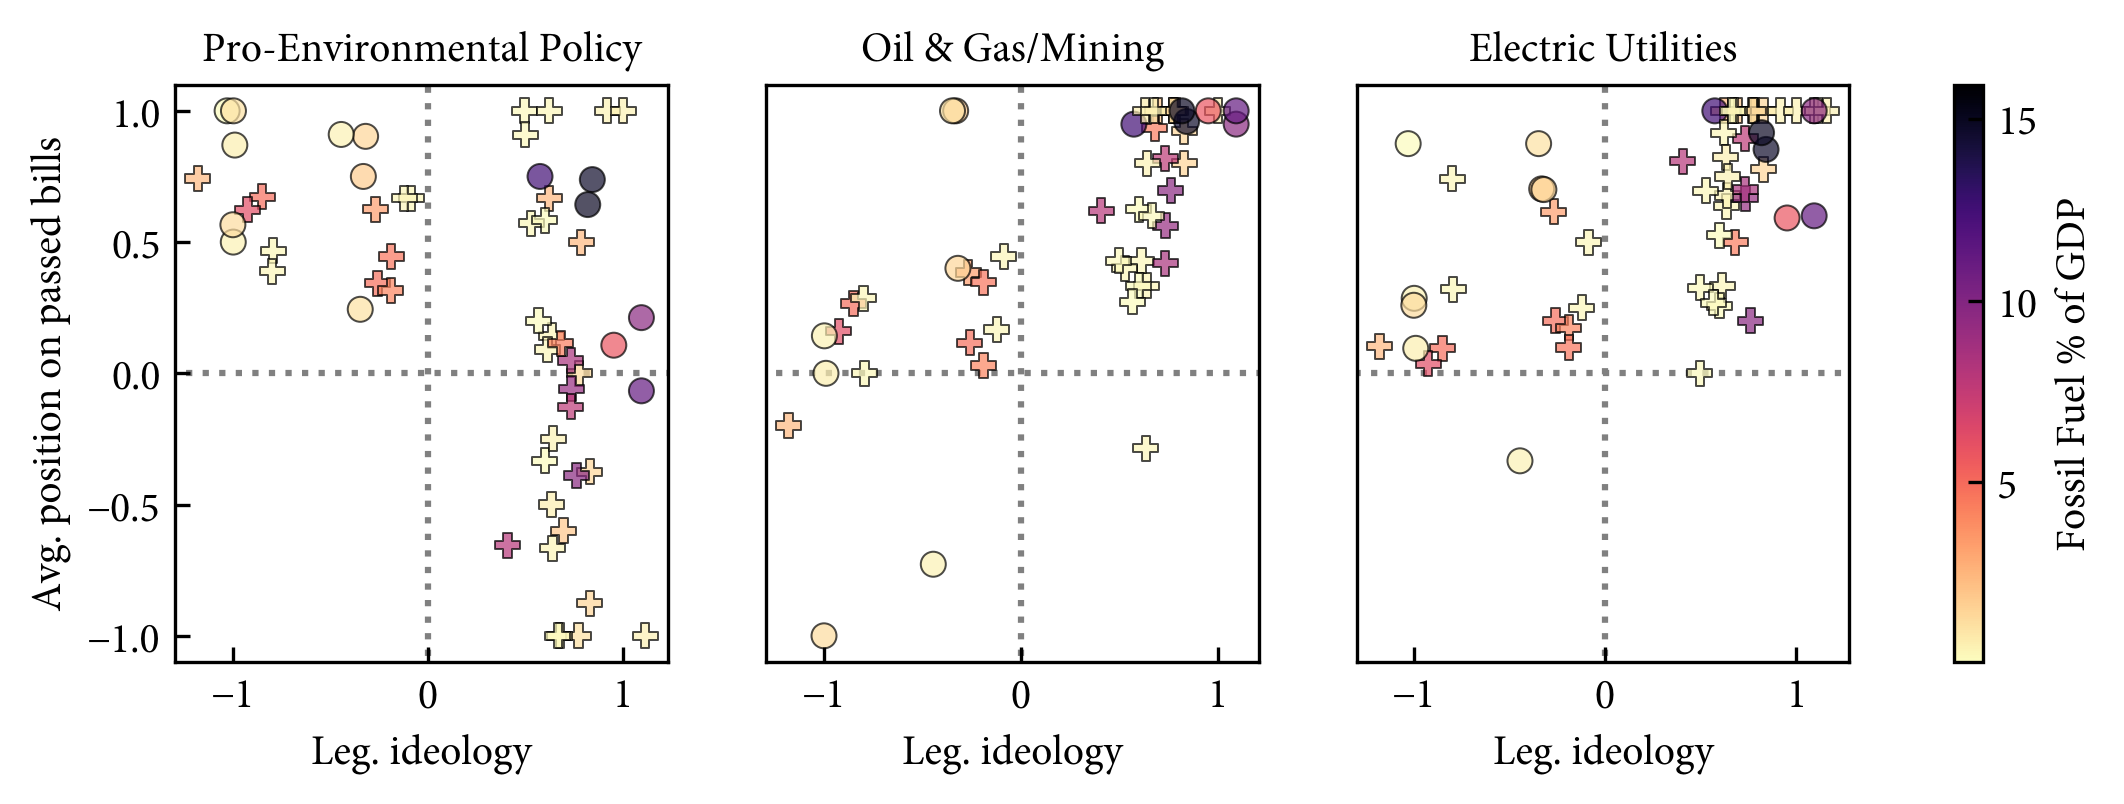
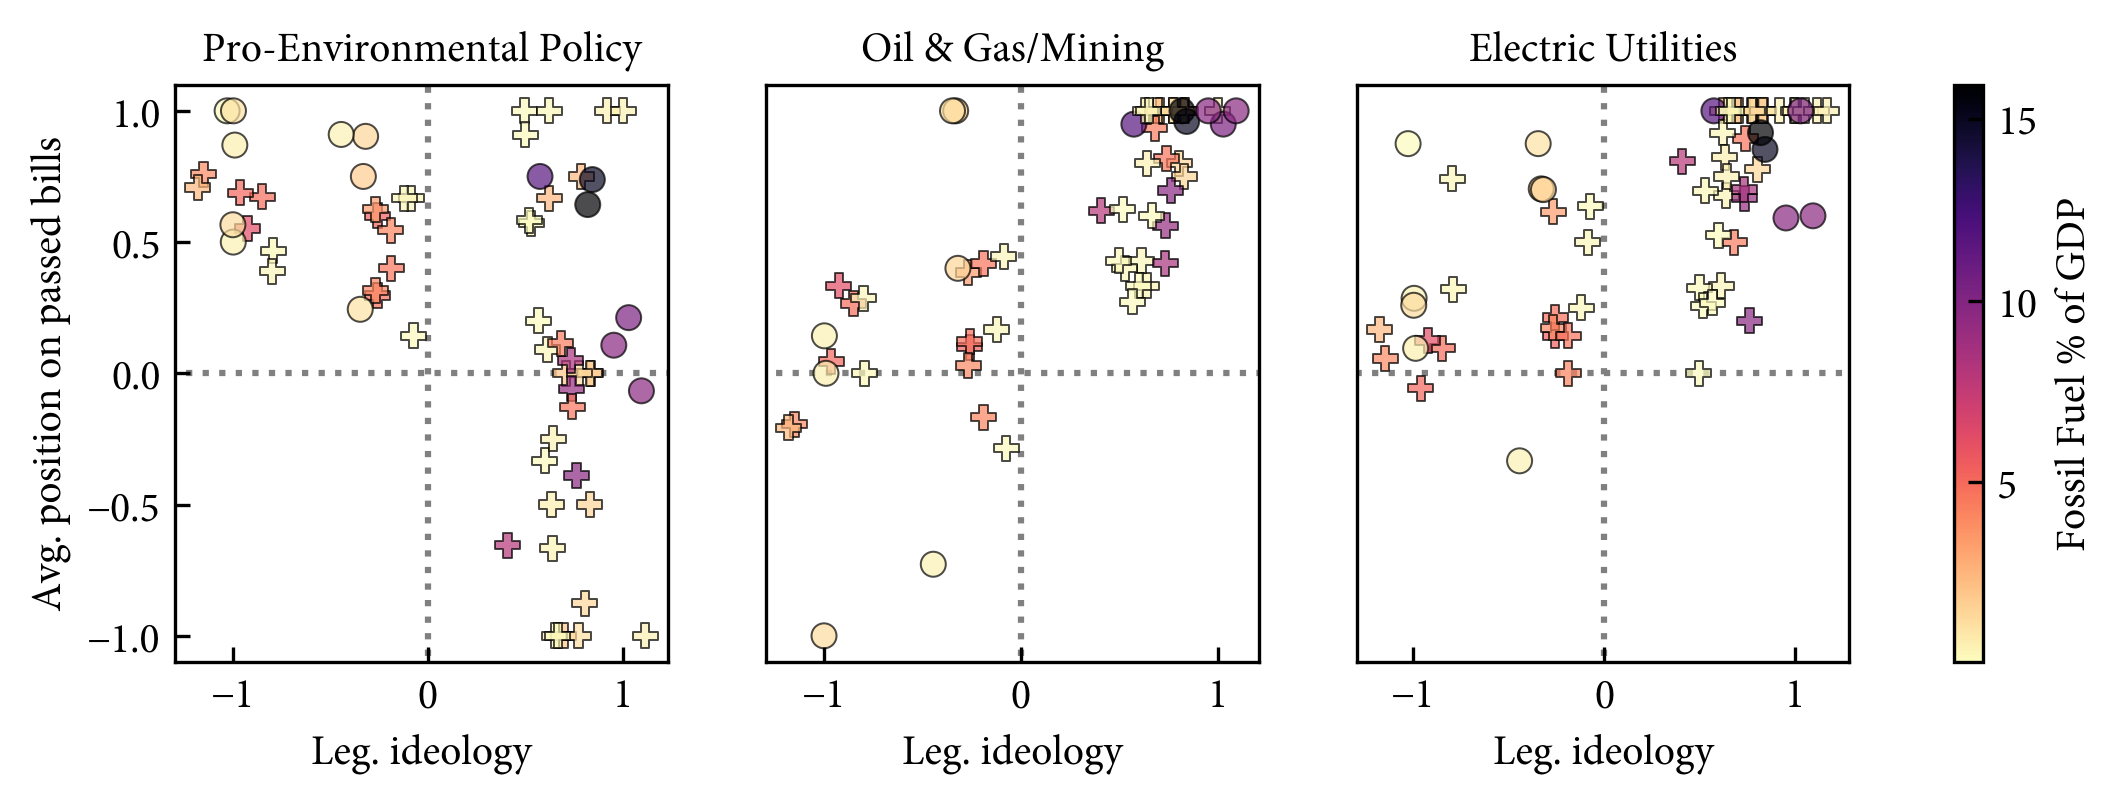
Fixed year indexing in structural_factors.py

diff --git a/scripts/structural_factors.py b/scripts/structural_factors.py
@@ -68,7 +68,7 @@ def main():
             ['client_uuid', 'bill_identifier'])
 
         # Map the session of each bill's passage to its year
-        session_to_year = positions.groupby('unified_session').year.max().to_dict()
+        session_to_year = positions.groupby(['unified_session', 'state']).year.max().to_dict()
 
         # Select positions on passed bills
         industry_positions_passed_bills = industry_positions[industry_positions.bill_identifier.map(passed)]
@@ -83,7 +83,7 @@ def main():
         data = pd.concat([net, passed_n_positions, passed_n_bills], axis=1).reset_index(drop=False)
         data.columns = ['state', 'unified_session', 'net_on_passed', 'n_positions_on_passed', 'n_bills_passed']
         data['clients_in_industry'] = data.state.map(clients_in_industry)
-        data['year'] = data.unified_session.map(session_to_year)
+        data['year'] = data.apply(lambda row: session_to_year[(row.unified_session, row.state)], axis=1)
         data = data.groupby(['state', 'year']).sum(numeric_only=True)
         data['passed_avg_pos'] = data.net_on_passed / data.n_positions_on_passed
 
@@ -111,6 +111,8 @@ def main():
     plotdata = plotdata[plotdata.state.isin(positions.state.unique())]
 
     plot_partisanship_figure(plotdata)
+
+    plotdata.to_csv('tables/structural_factors_plotdata.csv', index=False)
 
     ###############################
     # Regression Models for tables 2 and 3
@@ -205,3 +207,4 @@ def main():
 
         # Save the regression table to an Excel file.
         regression_table.to_excel('tables/regression_table.xlsx')
+        regression_table.to_csv('tables/regression_table.csv')

diff --git a/main.py b/main.py
@@ -62,23 +62,23 @@ if __name__ == '__main__':
     from scripts import bill_topic_correlations, most_active_industries, structural_factors, \
     electric_utilities_disagreements, environmental_industry_agree_probabilities
 
-    top_industries = most_active_industries.main(True)
+    # top_industries = most_active_industries.main(True)
+    #
+    # comparison_industries = [top_industries[0], *top_industries[2:11]][::-1]
+    # comparison_topics = [
+    #     'Renewable Energy Wind',
+    #     'Renewable Energy Solar',
+    #     'Fossil Energy Coal',
+    #     'Fossil Energy Natural Gas',
+    #     'Nuclear Energy Facilities',
+    #     'Energy Efficiency',
+    #     'Emissions'
+    # ]
 
-    comparison_industries = [top_industries[0], *top_industries[2:11]][::-1]
-    comparison_topics = [
-        'Renewable Energy Wind',
-        'Renewable Energy Solar',
-        'Fossil Energy Coal',
-        'Fossil Energy Natural Gas',
-        'Nuclear Energy Facilities',
-        'Energy Efficiency',
-        'Emissions'
-    ]
-
-    bill_topic_correlations.main(comparison_industries, comparison_topics, True)
-
-    environmental_industry_agree_probabilities.main(True)
+    # bill_topic_correlations.main(comparison_industries, comparison_topics, True)
+    #
+    # environmental_industry_agree_probabilities.main(True)
 
     structural_factors.main()
 
-    electric_utilities_disagreements.main(True)
+    electric_utilities_disagreements.main()
